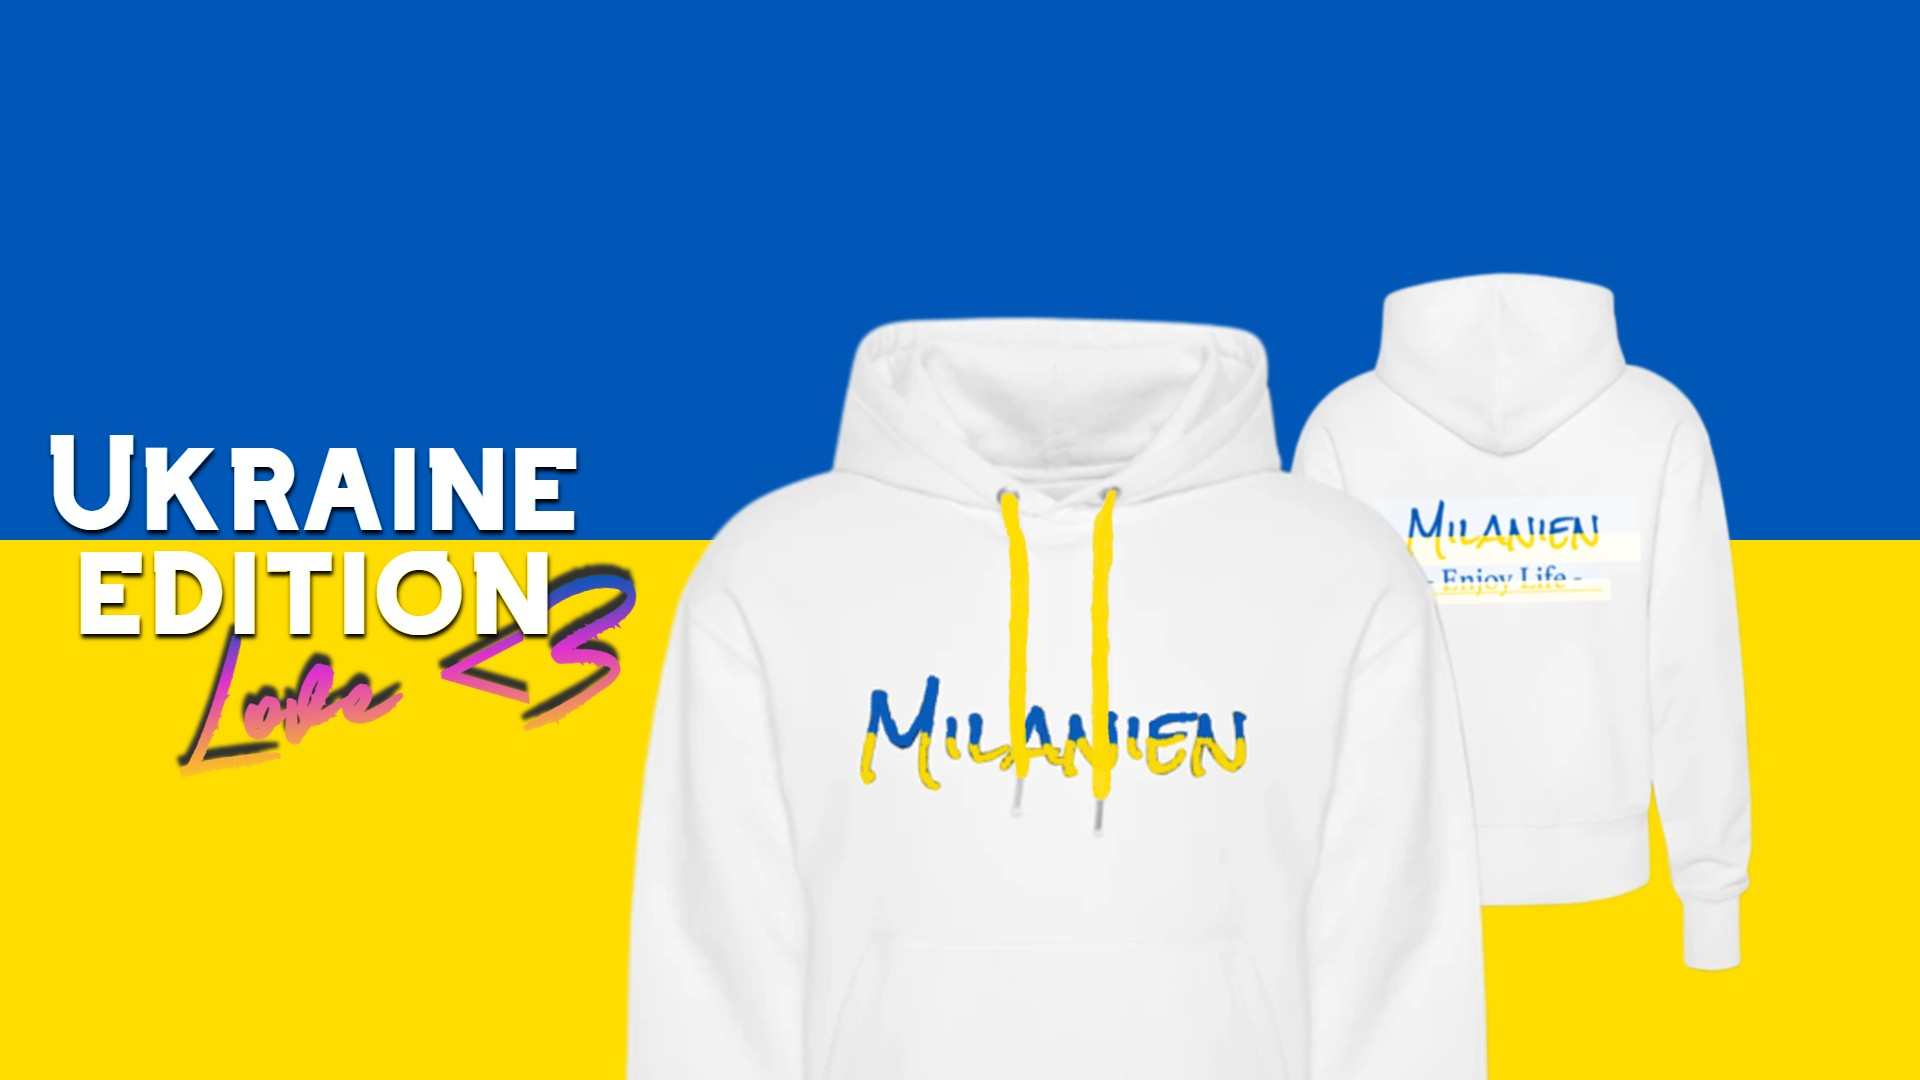
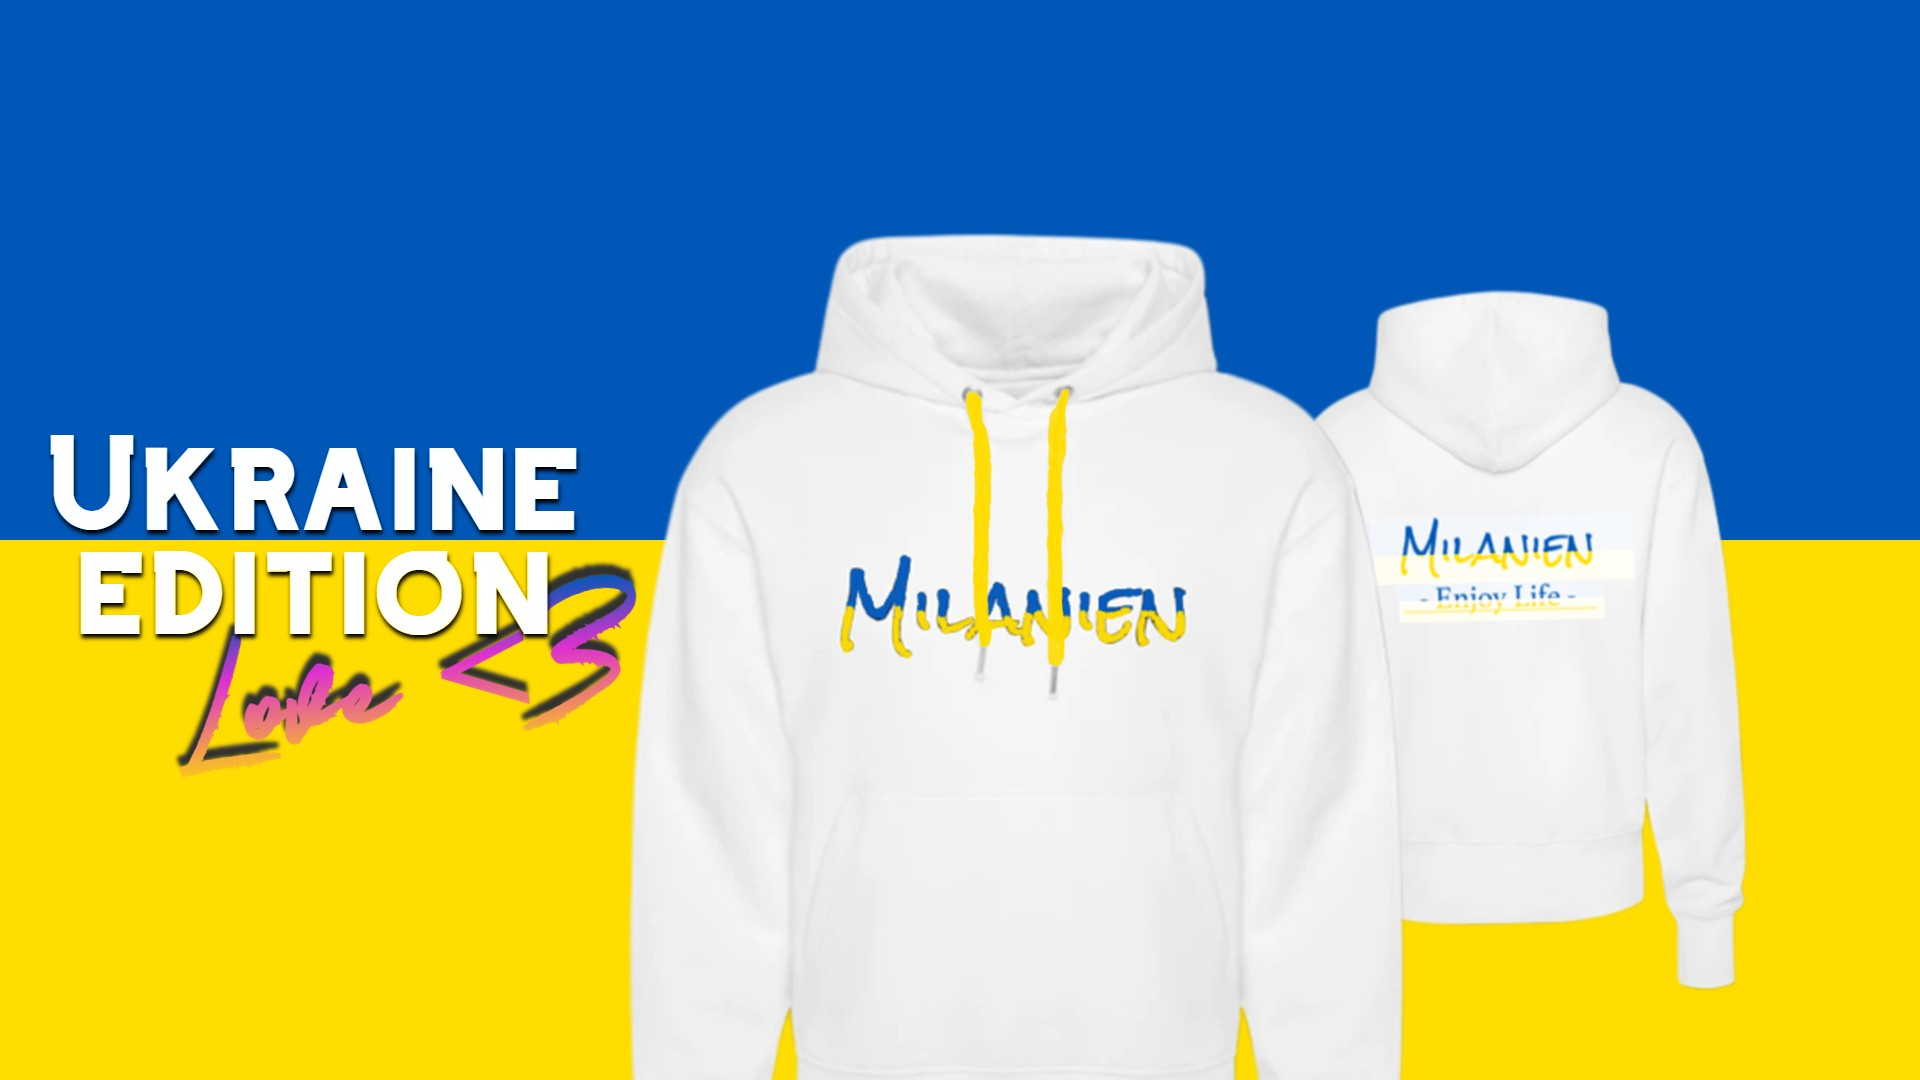
gif

diff --git a/view.js b/view.js
@@ -39,7 +39,7 @@ function viewHomePage(){
      html=`<h2>Welcome to Milanien! Calmest styles in fashion!</h2>
      `
     html += `<div class="slideShowBox">
-                <img class="slideShowPic" name="slide" src="/bilder/Promo/ukranepromo2.jpg" style="width:100%"/>
+                <img class="slideShowPic" name="slide" src="/bilder/Promo/UP.gif" style="width:100%"/>
             </div>`
     html += `<div class="catagoryBox">
                 <div class="genderBox">
